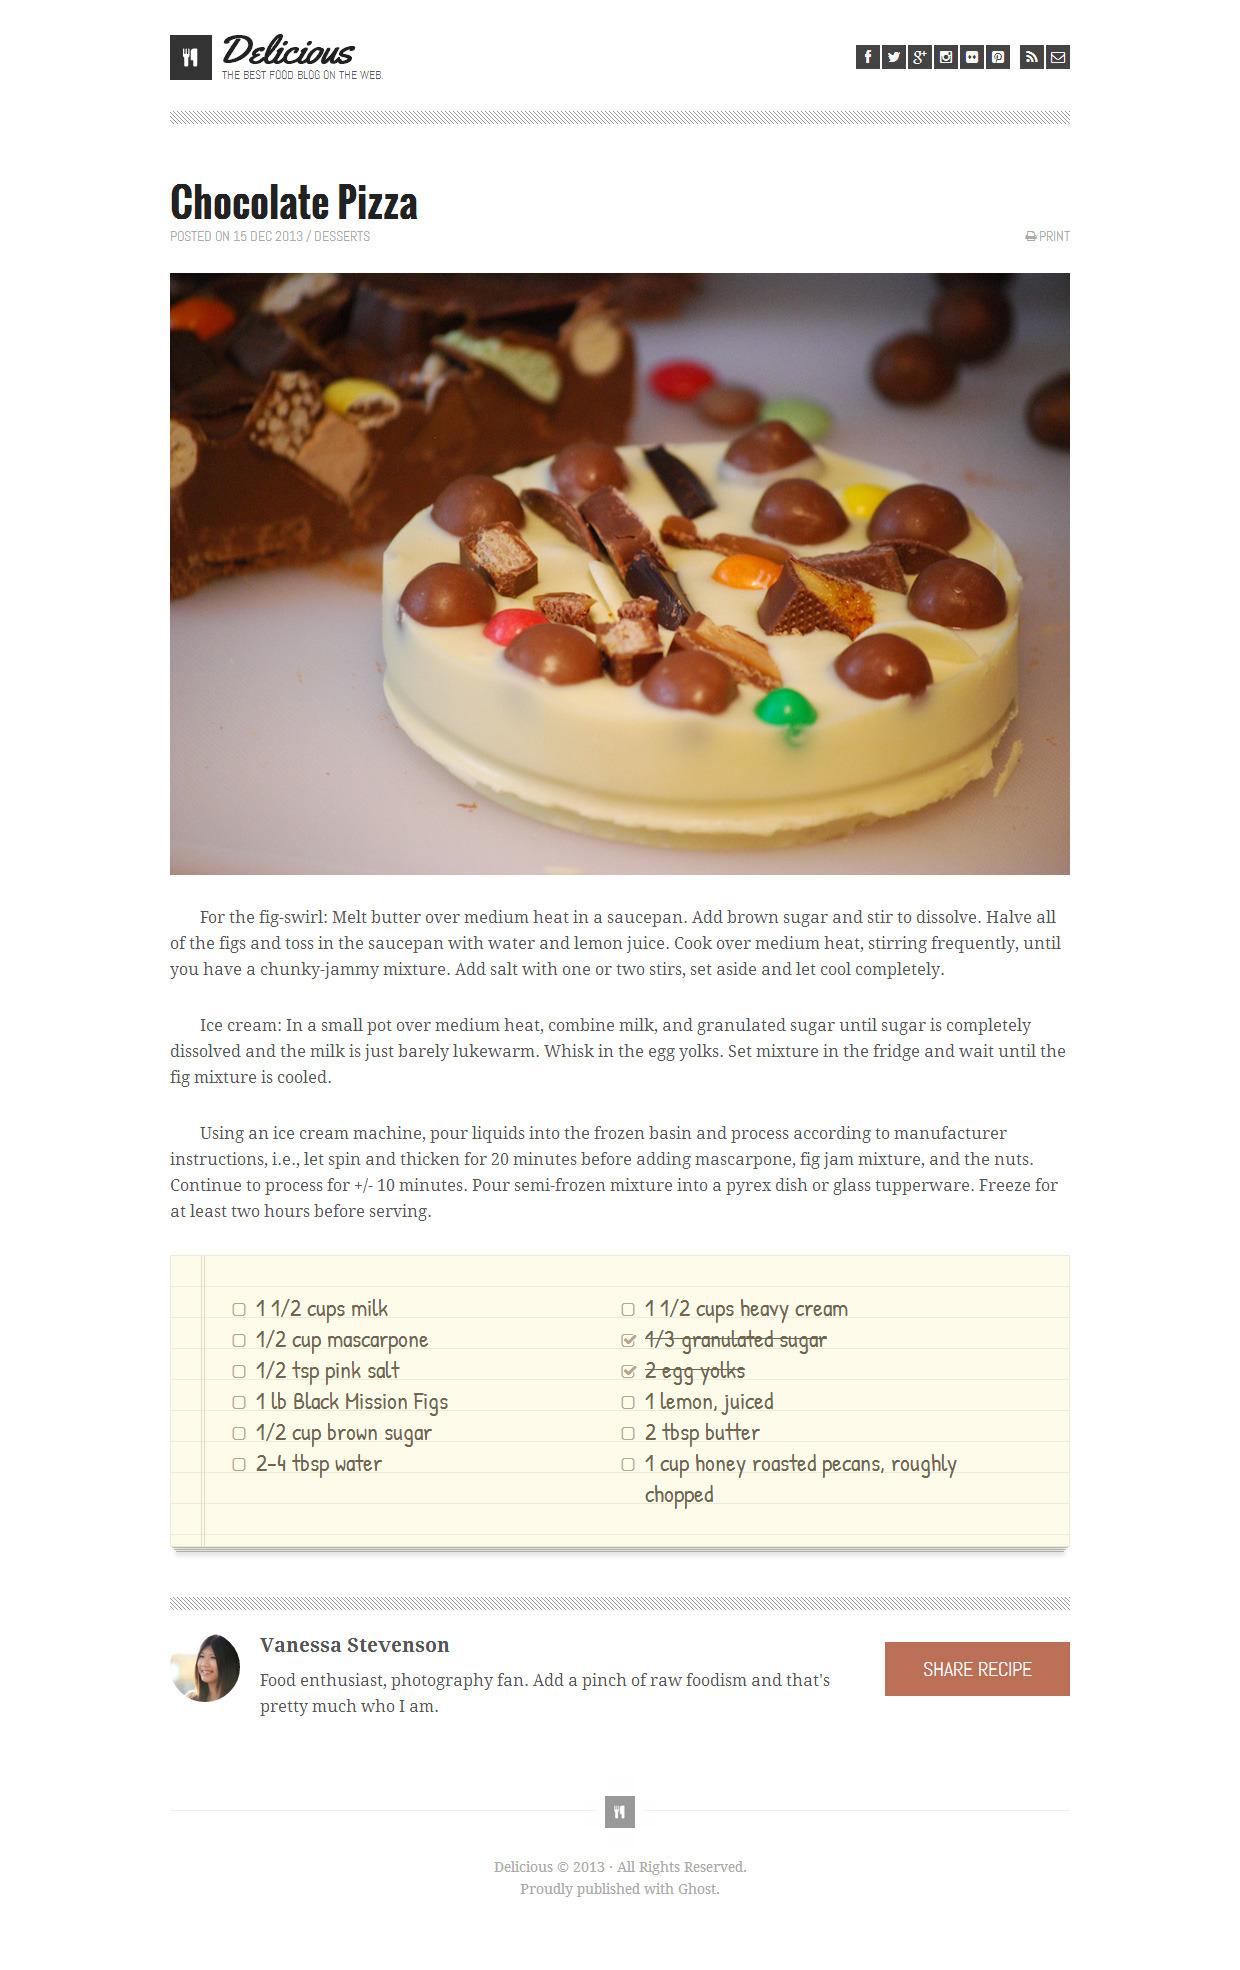
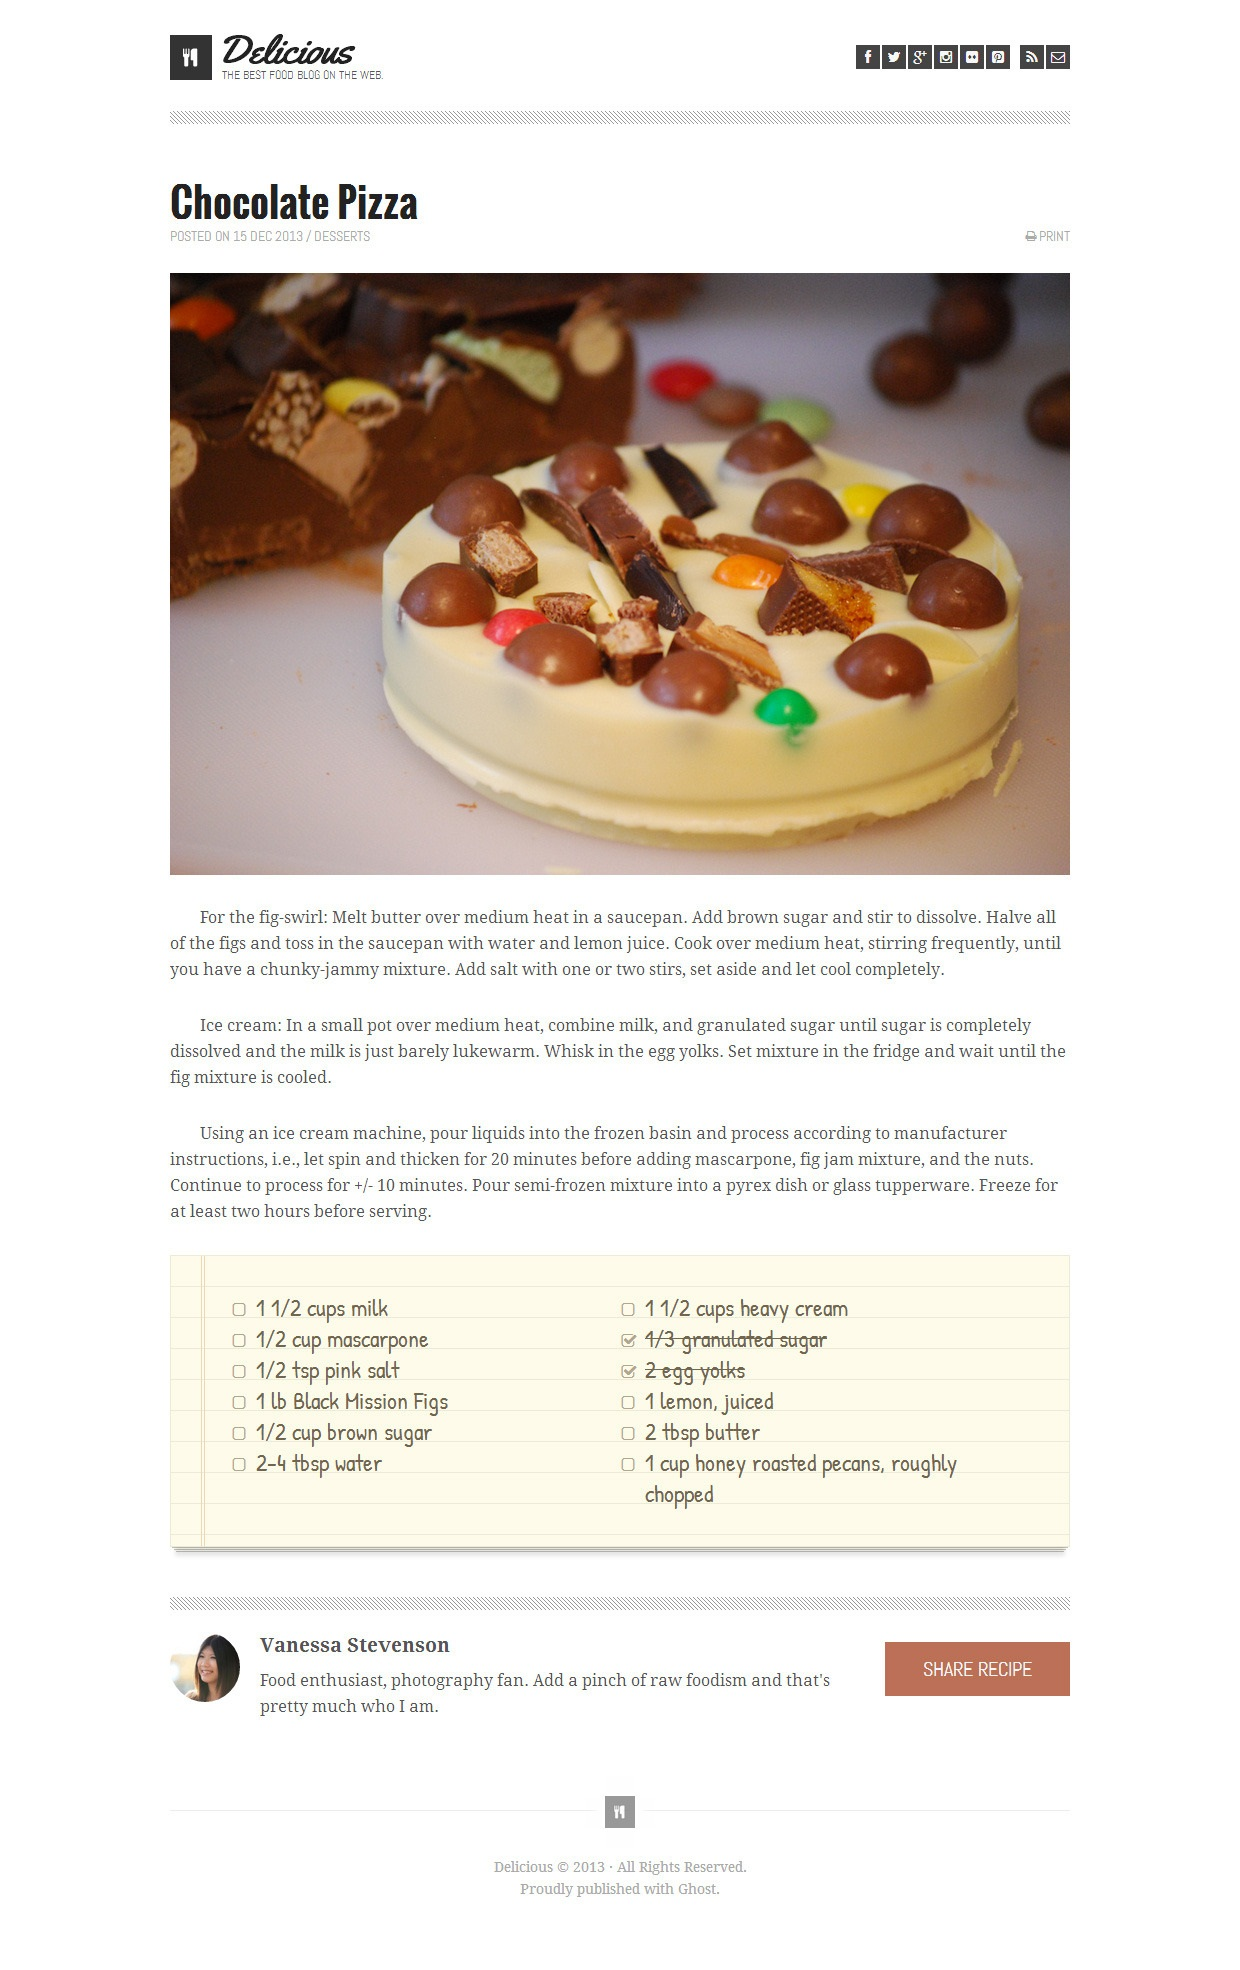
added border

diff --git a/index.html b/index.html
@@ -95,7 +95,13 @@
         <section class="shareButton"><aside>share recipe</aside></section>
       </section>
       <footer>
-        <section><img src="challenge/small-logo.png" class="smallLogo"></section>
+        <section>
+          <section class="border-bot">
+          </section>
+          <img src="challenge/small-logo.png" class="smallLogo">
+          </section>
+          <section class="border-bot.png">
+          </section>
         <ul>
           <li>Delicious &copy; 2014 - All Rights Reserved</li>
           <li>Proudly published with Ghost.</li>

diff --git a/main.css b/main.css
@@ -8,6 +8,7 @@ h1{
 }
 h2{
   float: left;
+  font-size: 10px;
 }
 
 .logo{
@@ -106,6 +107,15 @@ article{
 }
 .van{
   float: left;
+}
+.border-bot{
+  width: 900px;
+  height: 50px;
+  margin: auto;
+  background-image: url(challenge/border-bot.png);
+  background-repeat: repeat-x;
+  /*float: center;*/
+
 }
 .smallLogo{
   text-align: center;
